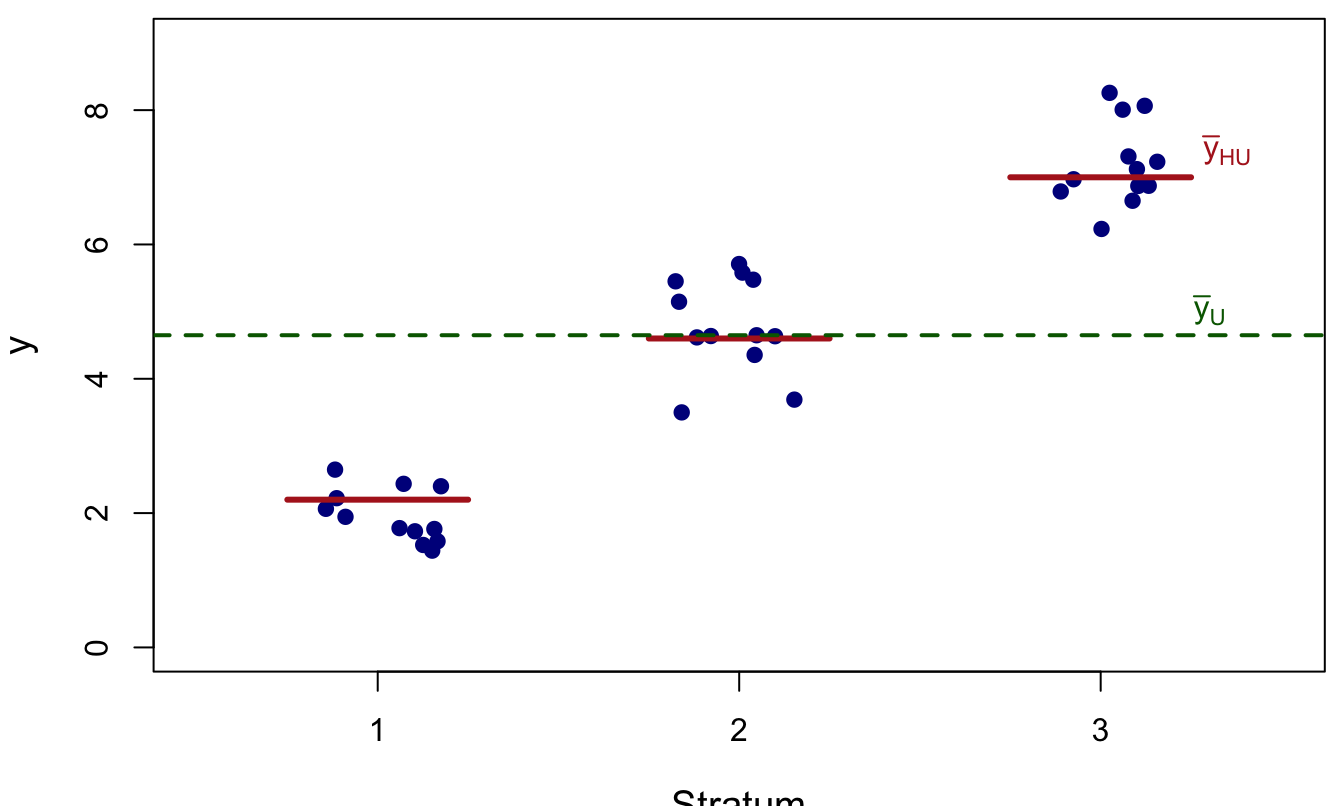
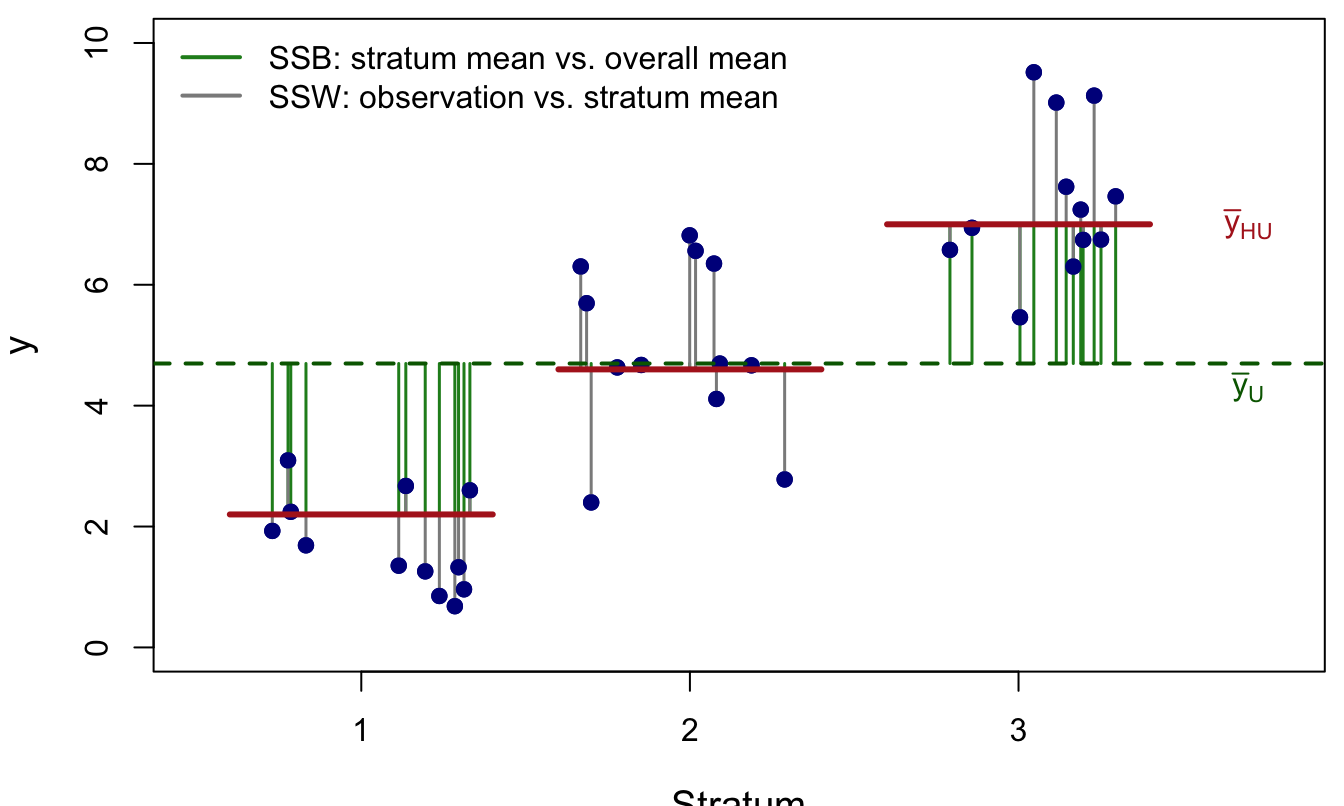
Lec04: draw SSB/SSW error lines in SSB-SSW illustration
Claude-Session: https://claude.ai/code/session_01Lrw3YZTckMj4S8WykMz2Ea

diff --git a/Lec04-strata.html b/Lec04-strata.html
@@ -878,7 +878,7 @@ w_{hj} = \frac{1}{\pi_{hj}} = \frac{N_h}{n_h}.
 
 <img data-src="Lec04-strata_files/figure-revealjs/fig-ssb-ssw-1.png" id="fig-ssb-ssw" class="quarto-figure quarto-figure-center r-stretch" style="width:75.0%"><p class="caption">
 Figure&nbsp;3
-</p><p>Red segments show stratum means (SSW is variability <em>around</em> these); the green dashed line is the overall mean (SSB is variability of the stratum means <em>around</em> it).</p>
+</p><p>Red segments show stratum means and the green dashed line is the overall mean. Grey lines are the within-stratum errors (observation to its stratum mean), whose squares sum to SSW; green lines are the between-stratum errors (stratum mean to overall mean, one per observation), whose squares sum to SSB.</p>
 </section>
 <section id="comparing-variances-proportional-allocation-vs.-srs" class="slide level2">
 <h2>Comparing Variances: Proportional Allocation vs.&nbsp;SRS</h2>
